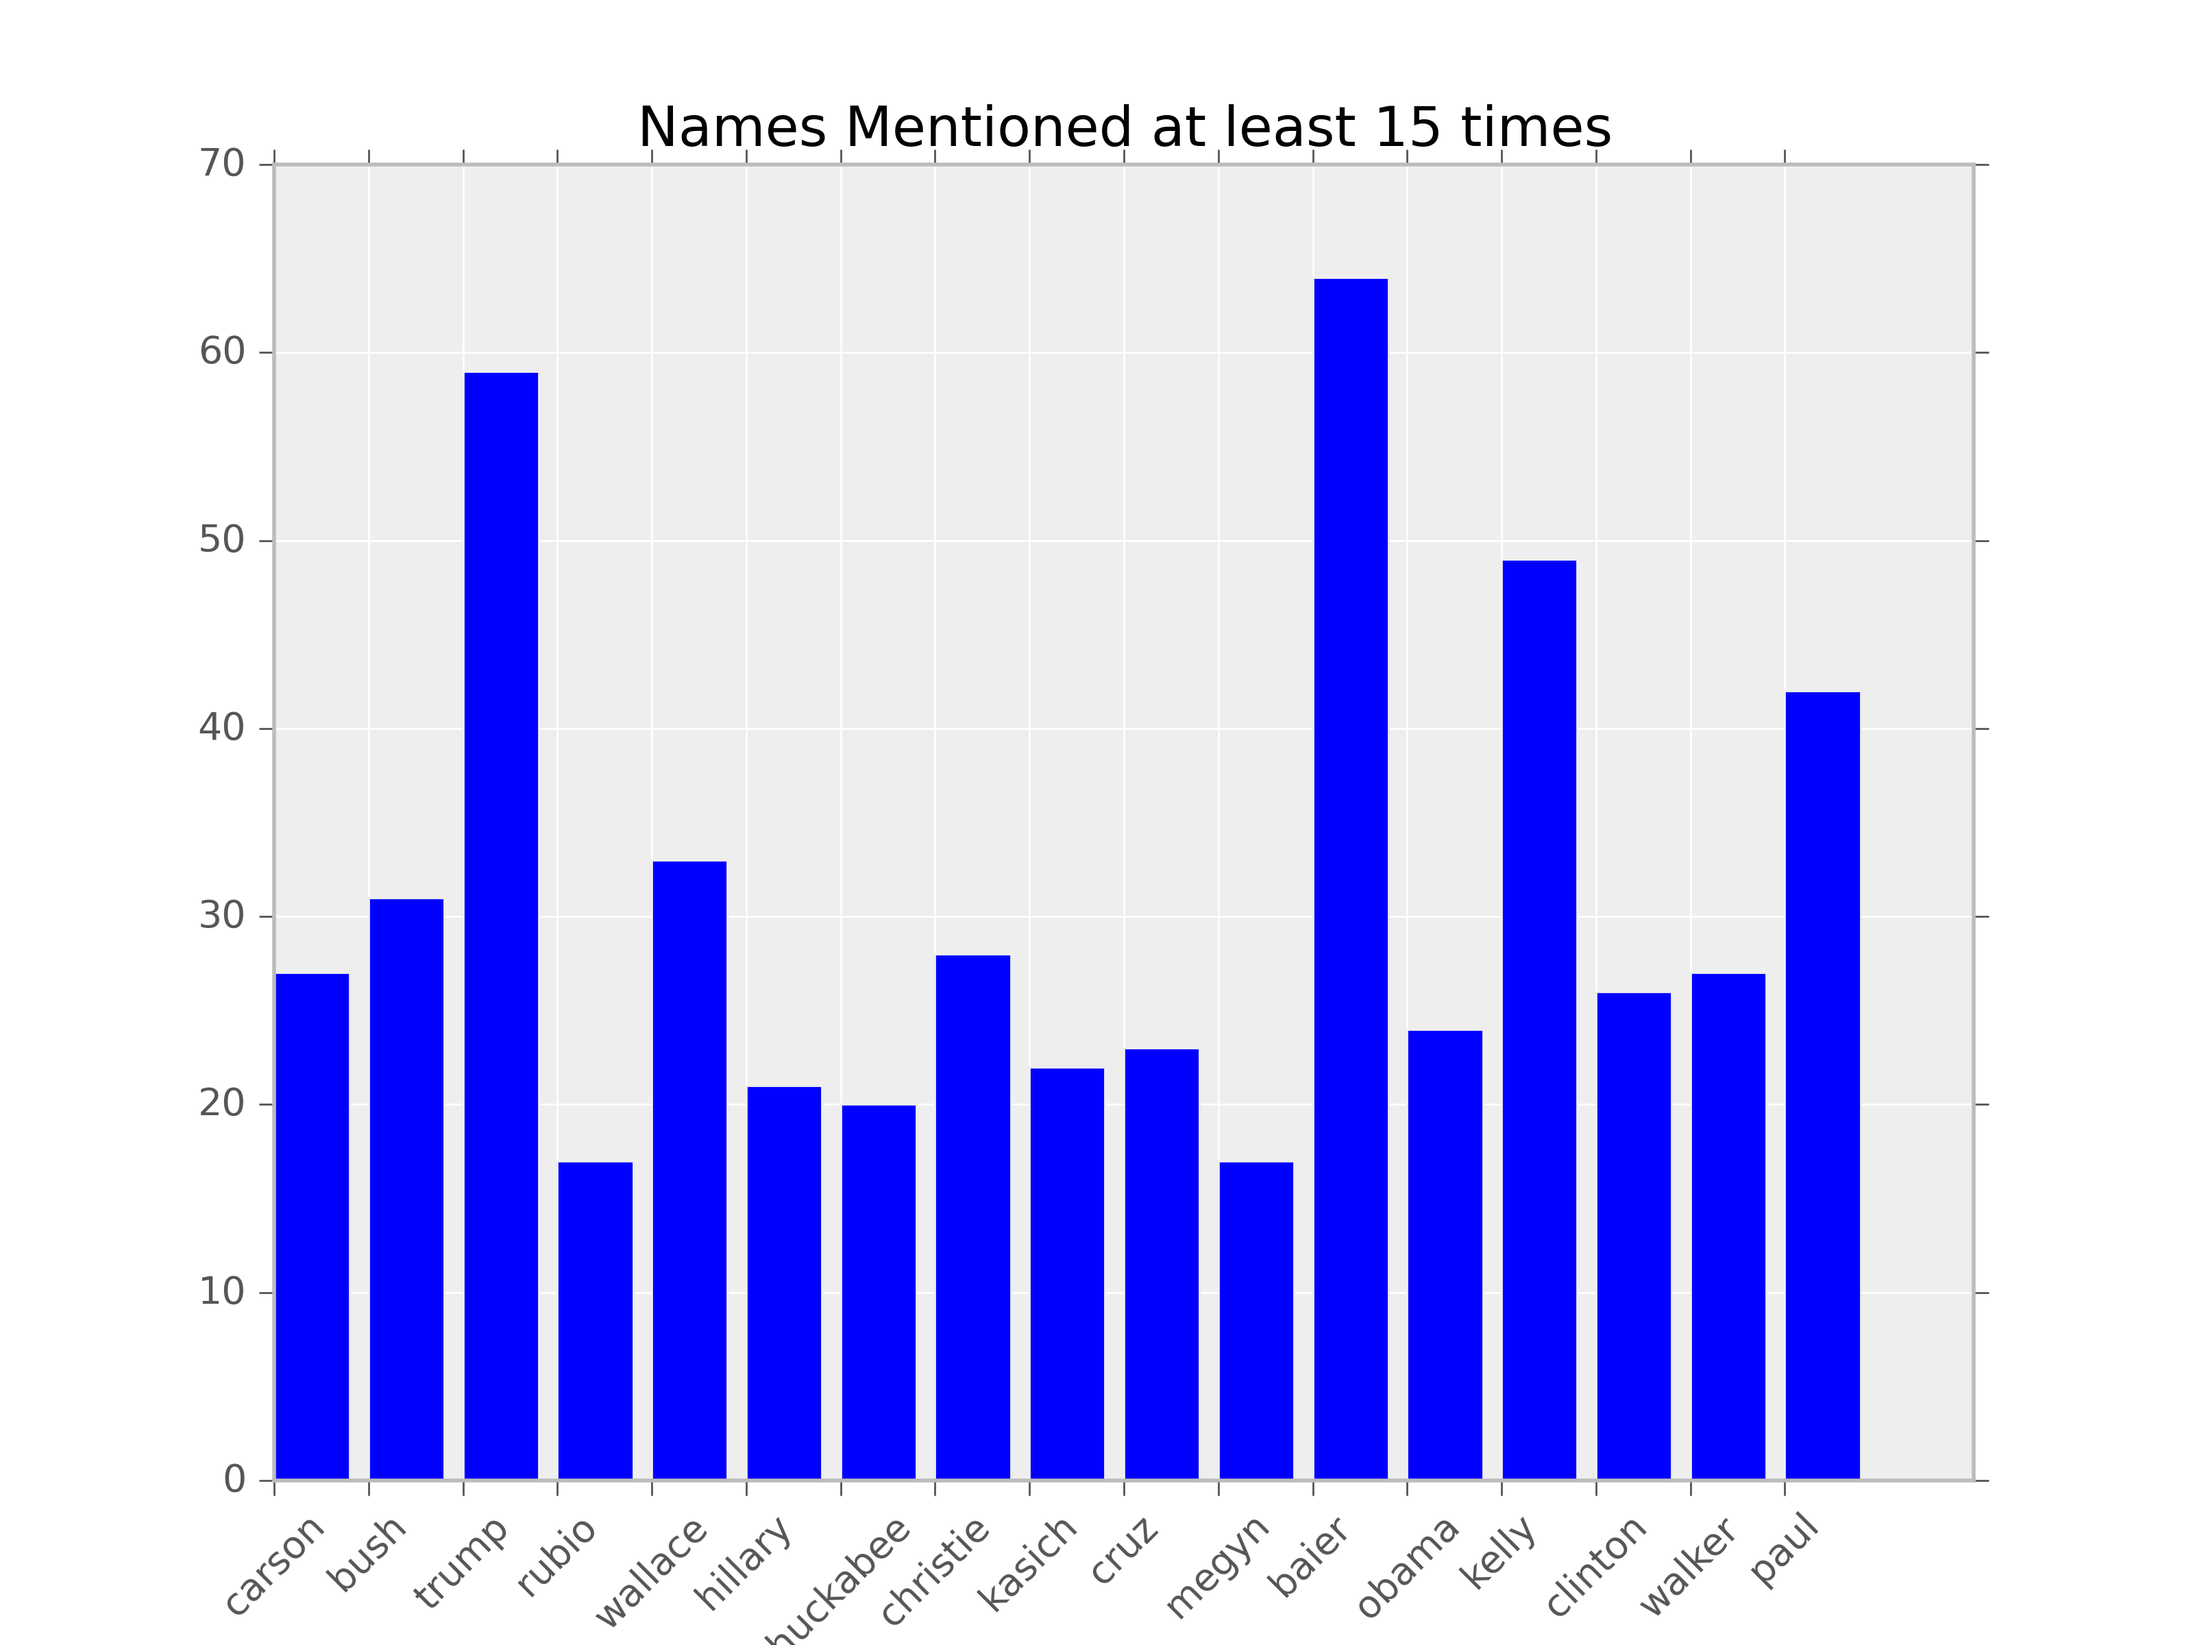
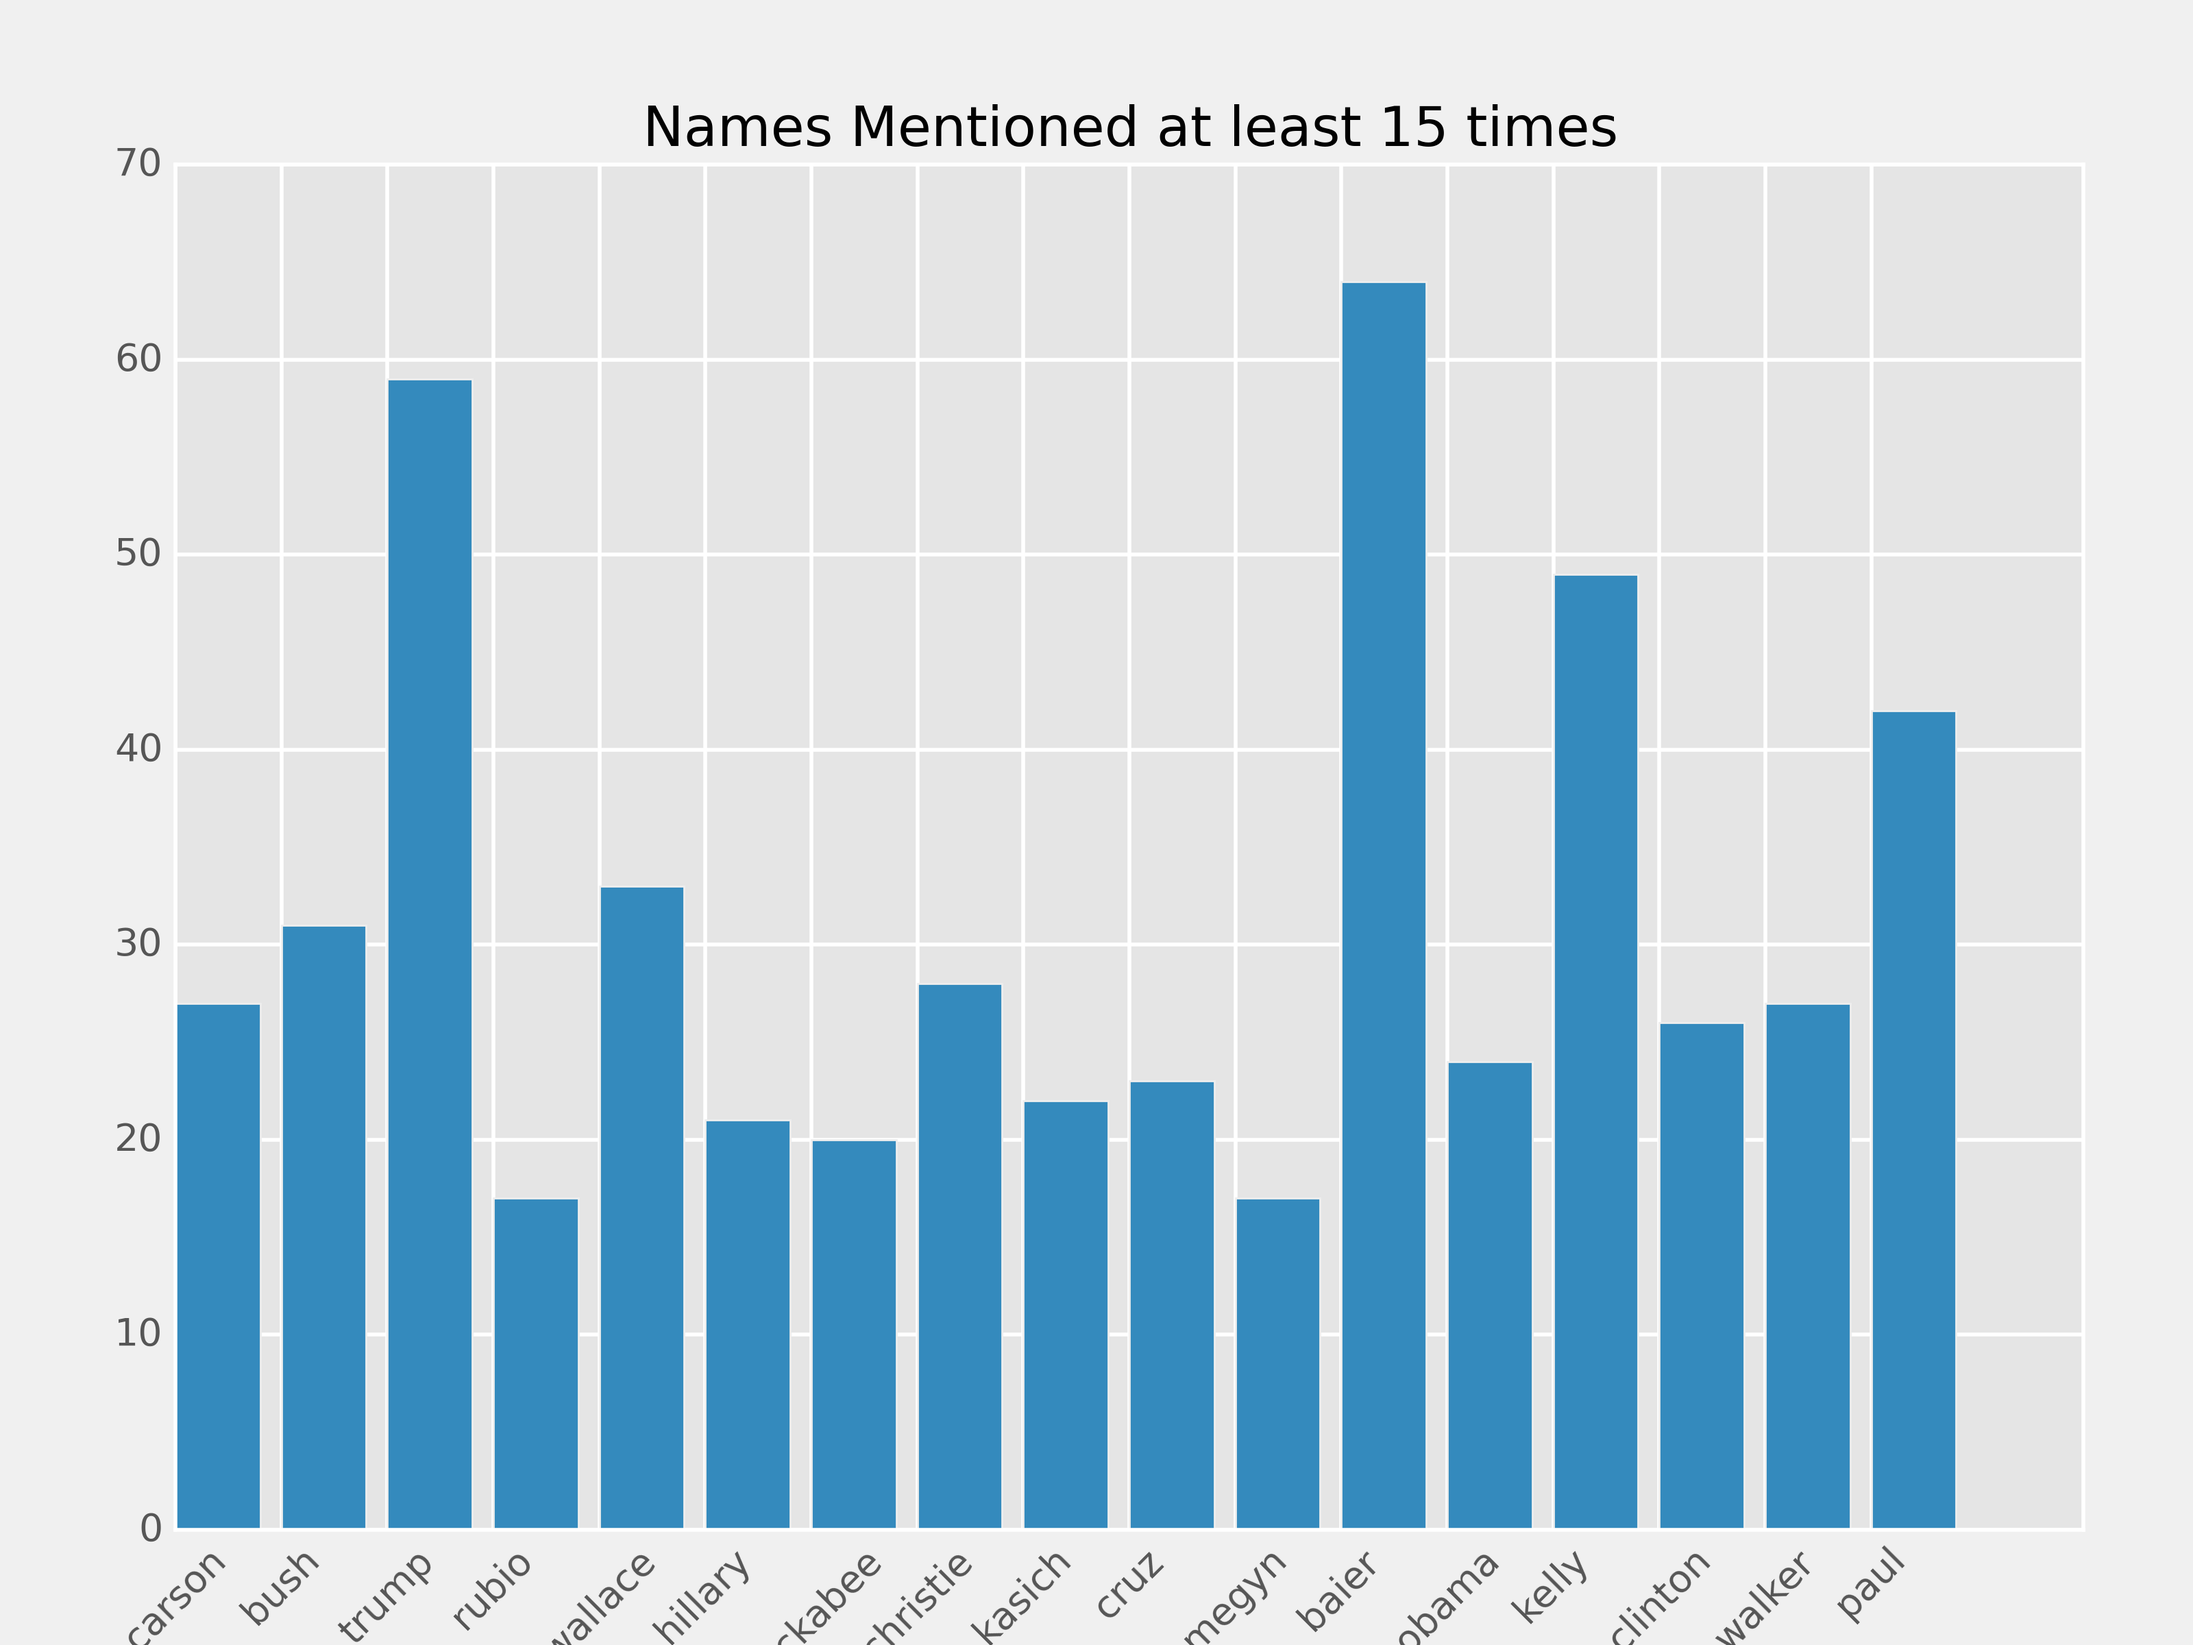
a few changes
graph display, contenders list in code

diff --git a/temp.py b/temp.py
@@ -15,7 +15,7 @@ from nltk.corpus import stopwords
 plt.clf()
 plt.close()
 
-plt.style.use('bmh')
+plt.style.use('ggplot')
 
 path = 'data_nospaces.txt'
 raw = open(path, 'rU').read()
@@ -90,3 +90,10 @@ plt.xticks(ind, xlabels, rotation = 45)
 plt.savefig('words_25.png', dpi=400)
 plt.clf()
 plt.close()
+
+
+contenders = ['carson', 'bush', 'trump', 'rubio',  'huckabee', 
+'christie', 'kasich', 'cruz', 'walker', 'paul']
+
+
+
